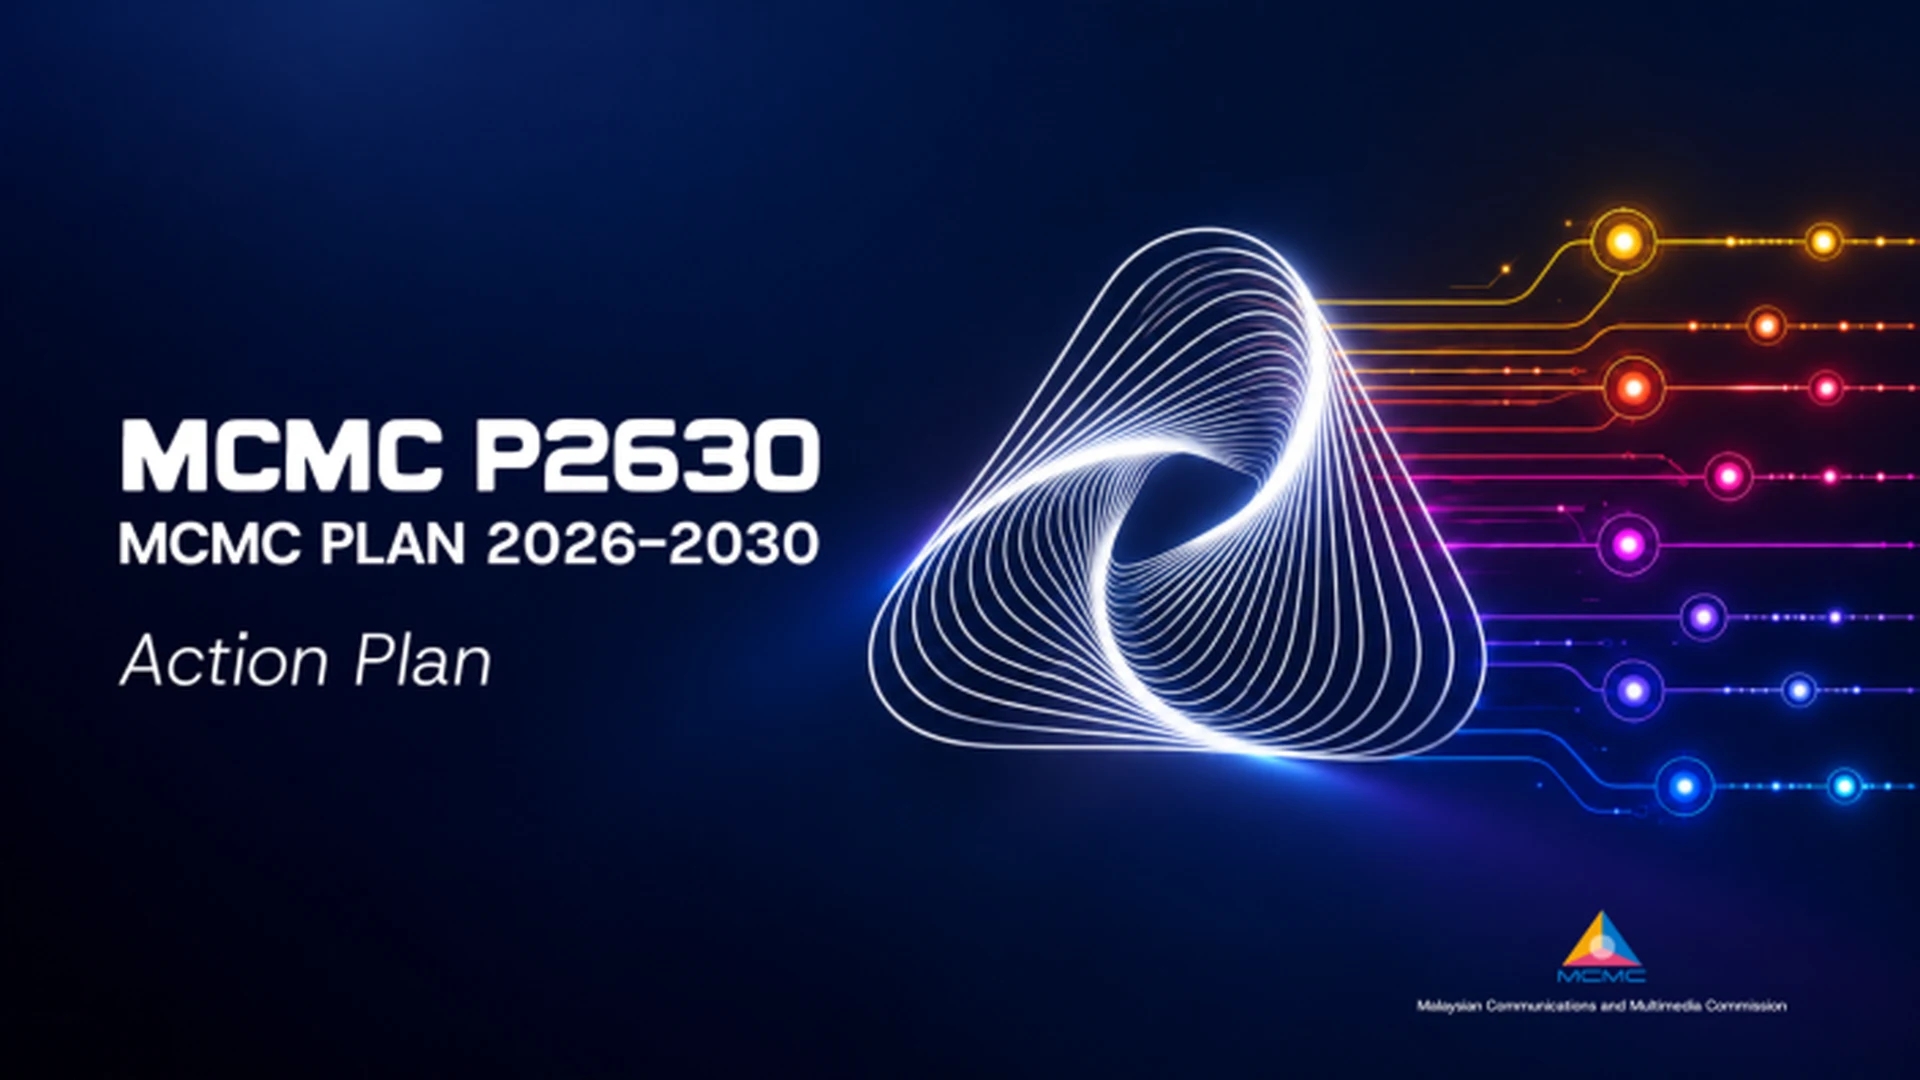
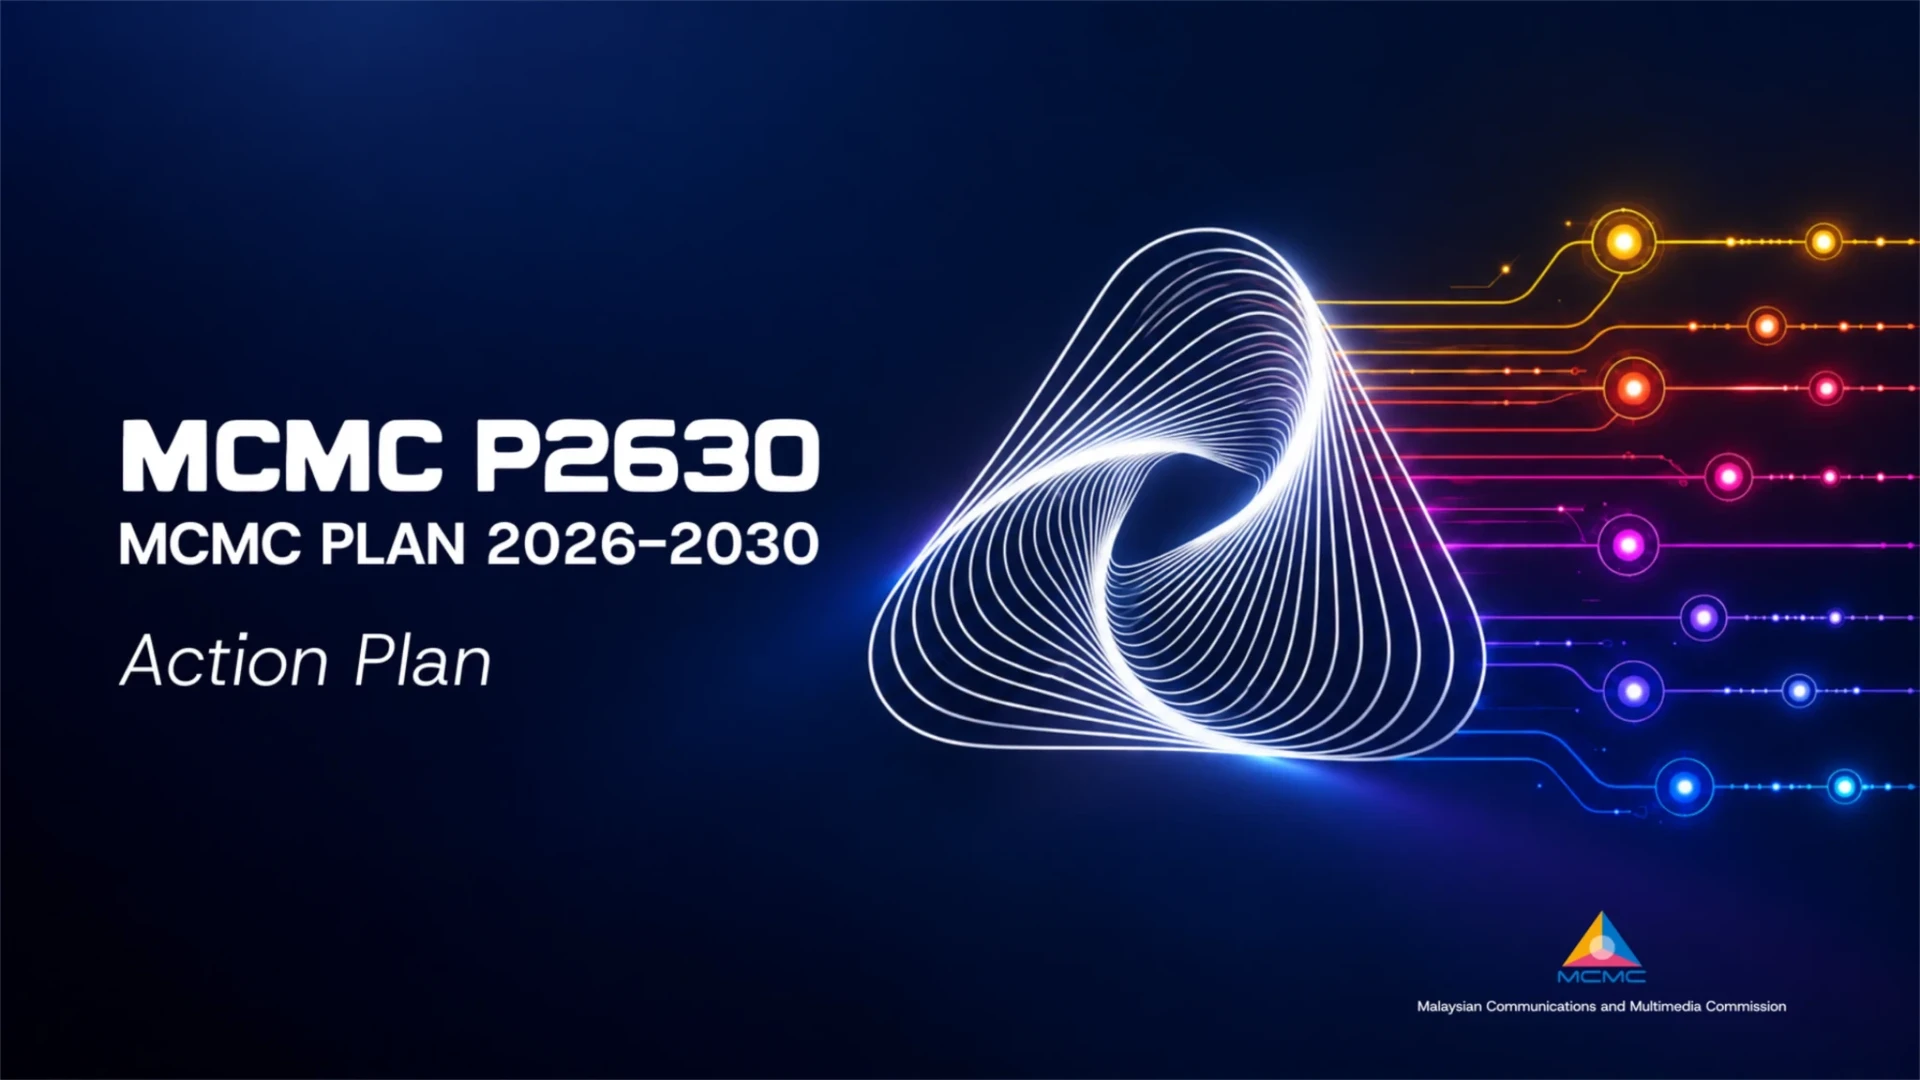
Replace Action Plan front cover with the sharper supplied image (1920x1080)
Claude-Session: https://claude.ai/code/session_01UKpjxEnXrYL5uWsmkoEer3

diff --git a/plan.md b/plan.md
@@ -31,7 +31,7 @@ Single source of truth: the build plan **and** the QA checklist (merged from the
 ## Phase 1 — Landing page (Figma 47:341)
 
 - [x] **1a. Layout:** `landing-3d.html` (default landing, keeps the 3D book) + `css/landing.css`. Only the Figma *layout* is followed. `draft.html` = static draft; `index.html` = redirect stub to `landing-3d.html`, with section colours from `[data-book]` tokens. Screenshot-checked against Figma at 1624px and 390px, with no horizontal scroll.
-  - Placeholders: 72px logo exported from Figma (`assets/landing/p2630-logo.png`), Action Plan front cover upscaled from the 705px Figma export, Action Plan back cover + spine copied from Strategy, PDF buttons disabled until the files exist. Host Grotesk is loaded from Google Fonts until approved font files are supplied.
+  - Placeholders: 72px logo exported from Figma (`assets/landing/p2630-logo.png`), Action Plan back cover + spine copied from Strategy, PDF buttons disabled until the files exist. Host Grotesk is loaded from Google Fonts until approved font files are supplied.
 - [x] **1b (part). 3D books:** Action Plan section has its own 3D book (one canvas per `data-book`).
 - [ ] Tune 3D lighting for the blue background.
 - [ ] **1c. Motion** (scroll reveal, open transition).
